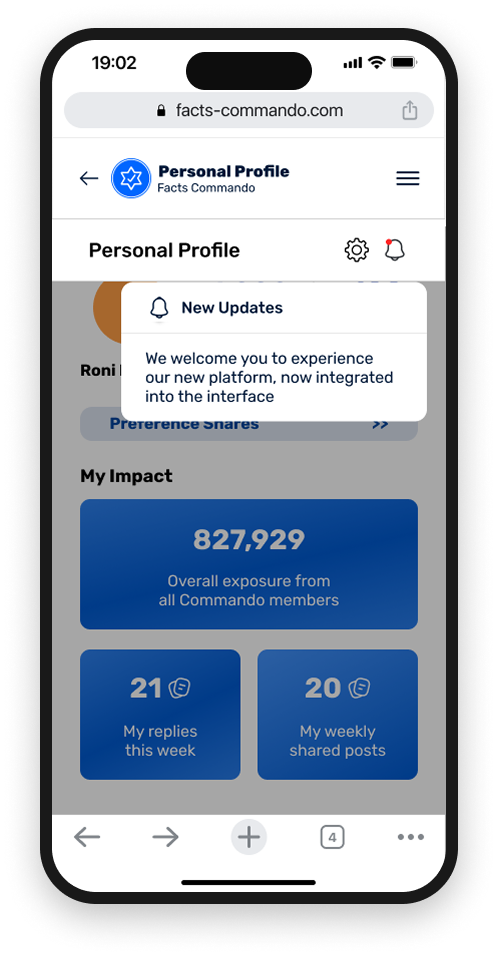
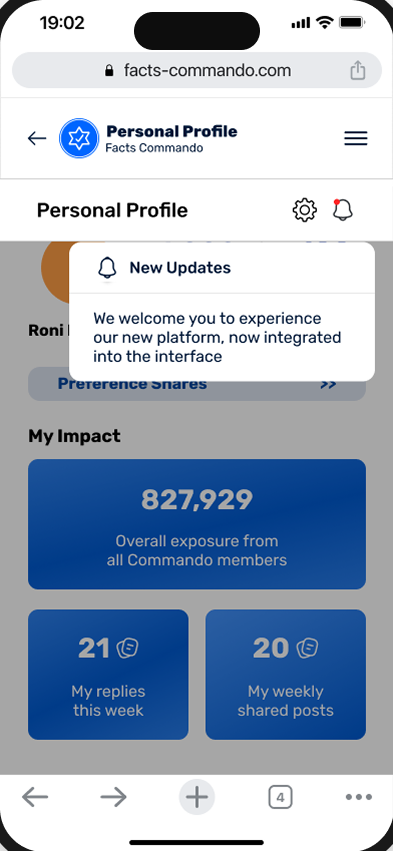
Crop mobile Personal Profile/Updates shots tight; remove remaining card backgrounds (#36)
Personal_Profile.png and mobile_Updates.png still carried an old
phone-bezel-and-black-canvas mockup style, unlike every other mobile_
screenshot which is cropped tight to just the screen. Cropped both to
match that convention.

Also removed the dark card wrapper from Subject_Comment_Mockup.png,
Premade_comments.png, Facebook_Switcher.png, and X_Switcher.png so
they float like the rest of the gallery. These four still carry their
old black canvas/square corners baked into the PNG since they're
pending fresh Figma exports, so that will remain visible until the
new exports land - just no longer double-framed by the CSS card on
top of it.

diff --git a/facts-commando.html b/facts-commando.html
@@ -170,9 +170,7 @@
           <h3 style="font-family: var(--font-heading); font-size: 20px; letter-spacing: -0.025em; font-weight: 600; color: var(--text-primary); margin: 0 0 6px;">Sharing Preferences</h3>
           <p style="margin-bottom: 20px; font-size: 16px;">The silent rejection becomes an explicit, editable choice - subjects on one tab, groups on the other, each one reportable or removable straight from the list.</p>
           <img class="zoomable" data-group="sharing-preferences" data-cap="Subjects a volunteer will put their name behind - the interview finding, made operable." src="./case-images/Sharing_Preference.png?v=2x" alt="Subject preferences" style="max-width:600px; width:100%; display:block; margin:0 auto 16px; border-radius:10px; border:1px solid var(--border-subtle); box-shadow:var(--shadow-lg);">
-          <div style="background:var(--bg-secondary); border:1px solid var(--border-subtle); border-radius:16px; padding:20px; max-width:460px; width:100%; margin:0 auto 48px; box-sizing:border-box;">
-            <img class="zoomable" data-group="sharing-preferences" data-cap="Comments carry the same subject choice as posts." src="./case-images/Subject_Comment_Mockup.png?v=2x" alt="Choose subject for comments" style="width:100%; display:block; border-radius:10px;">
-          </div>
+          <img class="zoomable" data-group="sharing-preferences" data-cap="Comments carry the same subject choice as posts." src="./case-images/Subject_Comment_Mockup.png?v=2x" alt="Choose subject for comments" style="max-width:460px; width:100%; display:block; margin:0 auto 48px; border-radius:10px; border:1px solid var(--border-subtle); box-shadow:var(--shadow-lg);">
           <div style="display:flex; flex-wrap:wrap; justify-content:center; align-items:flex-end; gap:24px; margin-bottom:48px;">
             <img class="zoomable h-match" data-group="sharing-preferences" data-cap="Report or remove, right from the row - no separate settings screen." src="./case-images/Sharing_Preference_Group_Actions.png?v=2x" alt="Group row actions, desktop" style="display:block; border-radius:10px; border:1px solid var(--border-subtle); box-shadow:var(--shadow-lg);">
             <img class="zoomable h-match" data-group="sharing-preferences" data-cap="Same actions, mobile." src="./case-images/mobile_Sharing_preference.png?v=2x" alt="Group preferences, mobile" style="display:block; border-radius:10px; border:1px solid var(--border-subtle); box-shadow:var(--shadow-lg);">
@@ -229,16 +227,10 @@
 
           <h3 style="font-family: var(--font-heading); font-size: 20px; letter-spacing: -0.025em; font-weight: 600; color: var(--text-primary); margin: 0 0 6px;">Premade Comments &amp; the Switcher</h3>
           <p style="margin-bottom: 20px;">Premade Comments post a ready-made, swappable argument per subject. The Switcher confirms the destination - Facebook, then X.</p>
-          <div style="background:var(--bg-secondary); border:1px solid var(--border-subtle); border-radius:16px; padding:20px; max-width:460px; width:100%; margin:0 auto 16px; box-sizing:border-box;">
-            <img class="zoomable" data-group="premade-comments-switcher" data-cap="Specified with the UX designer, designed per platform." src="./case-images/Premade_comments.png?v=2x" alt="Premade Comments" style="width:100%; display:block; border-radius:10px;">
-          </div>
+          <img class="zoomable" data-group="premade-comments-switcher" data-cap="Specified with the UX designer, designed per platform." src="./case-images/Premade_comments.png?v=2x" alt="Premade Comments" style="max-width:460px; width:100%; display:block; margin:0 auto 16px; border-radius:10px; border:1px solid var(--border-subtle); box-shadow:var(--shadow-lg);">
           <div style="display:flex; flex-wrap:wrap; justify-content:center; align-items:flex-start; gap:24px; margin-bottom:12px;">
-            <div style="background:var(--bg-secondary); border:1px solid var(--border-subtle); border-radius:16px; padding:20px; max-width:400px; width:100%; box-sizing:border-box;">
-              <img class="zoomable" data-group="premade-comments-switcher" data-cap="Facebook, the original network." src="./case-images/Facebook_Switcher.png?v=2x" alt="The Switcher, Facebook" style="width:100%; display:block; border-radius:10px;">
-            </div>
-            <div style="background:var(--bg-secondary); border:1px solid var(--border-subtle); border-radius:16px; padding:20px; max-width:400px; width:100%; box-sizing:border-box;">
-              <img class="zoomable" data-group="premade-comments-switcher" data-cap="X added alongside it - a pattern, not a toggle." src="./case-images/X_Switcher.png?v=2x" alt="The Switcher, X" style="width:100%; display:block; border-radius:10px;">
-            </div>
+            <img class="zoomable" data-group="premade-comments-switcher" data-cap="Facebook, the original network." src="./case-images/Facebook_Switcher.png?v=2x" alt="The Switcher, Facebook" style="max-width:400px; width:100%; display:block; border-radius:10px; border:1px solid var(--border-subtle); box-shadow:var(--shadow-lg);">
+            <img class="zoomable" data-group="premade-comments-switcher" data-cap="X added alongside it - a pattern, not a toggle." src="./case-images/X_Switcher.png?v=2x" alt="The Switcher, X" style="max-width:400px; width:100%; display:block; border-radius:10px; border:1px solid var(--border-subtle); box-shadow:var(--shadow-lg);">
           </div>
           <p style="font-family:var(--font-mono); font-size:12px; color:var(--text-muted); margin-bottom:48px; text-align:center;">THE SWITCHER, ABSORBING A THIRD NETWORK POST-LAUNCH</p>
         </section>
